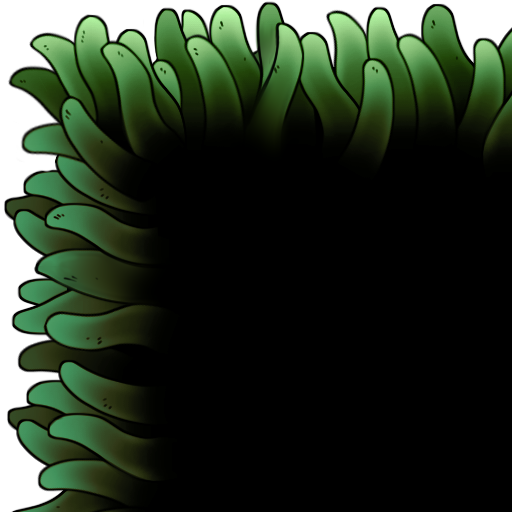
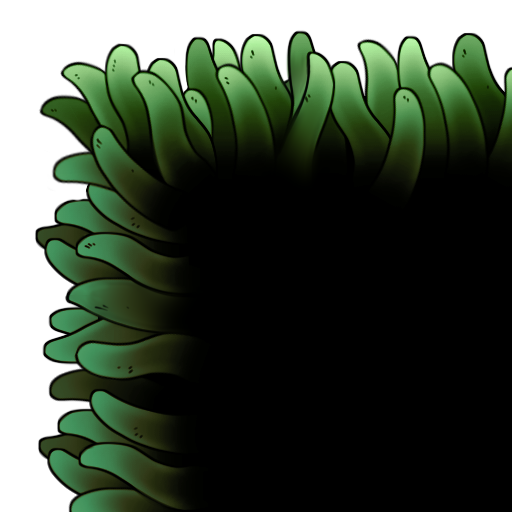
changed assets

diff --git a/game-engine/core/graphics/animatedGraphic.cpp b/game-engine/core/graphics/animatedGraphic.cpp
@@ -90,30 +90,30 @@ void AnimatedGraphic::checkCollisionRect(AnimatedGraphic* otherGraphic, float el
     Vector2D otherGraphicCurrentPosition = otherGraphic->getPosition();
     Vector2D otherGraphicNextPosition = otherGraphic->calculateNextPosition(elapsedTime);
     
-    if ((((currentGraphicCurrentPosition.y + getCollisionRectHeight() <= otherGraphicCurrentPosition.y && currentGraphicNextPosition.y + getCollisionRectHeight() > otherGraphicNextPosition.y) || currentGraphicCurrentPosition.y == otherGraphicCurrentPosition.y)
+    if ((((currentGraphicCurrentPosition.y + getCollisionRectHeight() <= otherGraphicCurrentPosition.y && currentGraphicNextPosition.y + getCollisionRectHeight() > otherGraphicNextPosition.y))
          && (currentGraphicNextPosition.x + getCollisionRectWidth() > otherGraphicNextPosition.x && currentGraphicCurrentPosition.x < otherGraphicNextPosition.x + otherGraphic->getCollisionRectWidth()))) {
         hasCollidedRect(otherGraphic, Geo2D::Side::BOTTOM);
         hasCollidedRectBottom(otherGraphic);
         otherGraphic->hasCollidedRect(this, Geo2D::Side::TOP);
         otherGraphic->hasCollidedRectTop(this);
-    } else if ((((currentGraphicCurrentPosition.y >= otherGraphicCurrentPosition.y + otherGraphic->getCollisionRectHeight() && currentGraphicNextPosition.y < otherGraphicNextPosition.y + otherGraphic->getCollisionRectHeight()) || currentGraphicCurrentPosition.y == otherGraphicCurrentPosition.y) &&
+    } else if ((((currentGraphicCurrentPosition.y >= otherGraphicCurrentPosition.y + otherGraphic->getCollisionRectHeight() && currentGraphicNextPosition.y < otherGraphicNextPosition.y + otherGraphic->getCollisionRectHeight())) &&
         (currentGraphicNextPosition.x + getCollisionRectWidth() > otherGraphicNextPosition.x && currentGraphicCurrentPosition.x < otherGraphicNextPosition.x + otherGraphic->getCollisionRectWidth()))) {
         hasCollidedRect(otherGraphic, Geo2D::Side::TOP);
         hasCollidedRectTop(otherGraphic);
         otherGraphic->hasCollidedRect(this, Geo2D::Side::BOTTOM);
         otherGraphic->hasCollidedRectBottom(this);
-    } else if ((((currentGraphicCurrentPosition.x + getCollisionRectWidth() <= otherGraphicCurrentPosition.x && currentGraphicNextPosition.x + getCollisionRectWidth() > otherGraphicNextPosition.x) || currentGraphicCurrentPosition.x == otherGraphicCurrentPosition.x)
+    } else if ((((currentGraphicCurrentPosition.x + getCollisionRectWidth() <= otherGraphicCurrentPosition.x && currentGraphicNextPosition.x + getCollisionRectWidth() > otherGraphicNextPosition.x))
          && (currentGraphicNextPosition.y + getCollisionRectHeight() > otherGraphicNextPosition.y && currentGraphicCurrentPosition.y < otherGraphicNextPosition.y + otherGraphic->getCollisionRectHeight()))) {
-        hasCollidedRect(otherGraphic, Geo2D::Side::LEFT);
-        hasCollidedRectLeft(otherGraphic);
-        otherGraphic->hasCollidedRect(this, Geo2D::Side::RIGHT);
-        otherGraphic->hasCollidedRectRight(this);
-    } else if ((((currentGraphicCurrentPosition.x >= otherGraphicCurrentPosition.x + otherGraphic->getCollisionRectWidth() && currentGraphicNextPosition.x < otherGraphicNextPosition.x + otherGraphic->getCollisionRectWidth()) || currentGraphicCurrentPosition.x == otherGraphicCurrentPosition.x) &&
-        (currentGraphicNextPosition.y + getCollisionRectHeight() > otherGraphicNextPosition.y && currentGraphicCurrentPosition.y < otherGraphicNextPosition.y + otherGraphic->getCollisionRectHeight()))) {
         hasCollidedRect(otherGraphic, Geo2D::Side::RIGHT);
         hasCollidedRectRight(otherGraphic);
         otherGraphic->hasCollidedRect(this, Geo2D::Side::LEFT);
         otherGraphic->hasCollidedRectLeft(this);
+    } else if ((((currentGraphicCurrentPosition.x >= otherGraphicCurrentPosition.x + otherGraphic->getCollisionRectWidth() && currentGraphicNextPosition.x < otherGraphicNextPosition.x + otherGraphic->getCollisionRectWidth())) &&
+        (currentGraphicNextPosition.y + getCollisionRectHeight() > otherGraphicNextPosition.y && currentGraphicCurrentPosition.y < otherGraphicNextPosition.y + otherGraphic->getCollisionRectHeight()))) {
+        hasCollidedRect(otherGraphic, Geo2D::Side::LEFT);
+        hasCollidedRectLeft(otherGraphic);
+        otherGraphic->hasCollidedRect(this, Geo2D::Side::RIGHT);
+        otherGraphic->hasCollidedRectRight(this);
     }
 }
 

diff --git a/mario/mario.cpp b/mario/mario.cpp
@@ -18,11 +18,11 @@ private:
 public:
     Mario(int screenWidth, int screenHeight, std::string name) : GameEngine(screenWidth, screenHeight, 9, name, 1000) {
         scrollingWorld = new jimp::ScrollingWorld(new Character(jimp::Vector2D { .x = static_cast<float>(getScreenWidth() / 2), .y = 200 }), 5000, 3000);
-        setBackgroundColor(0x7fb4c9);
+        setBackgroundColor(0x79b5af);
         new BackgroundRedCharacter(jimp::Vector2D { .x = 1670, .y = 2600 });
-        new Floor(jimp::Vector2D { .x = 0, .y = 0 }, "platform-top-left.png", 1);
-        new Floor(jimp::Vector2D { .x = 256, .y = 0 }, "platform-top-middle.png", 15);
-        new Floor(jimp::Vector2D { .x = 4096, .y = 0 }, "platform-top-right.png", 1);
+        Floor* left = new Floor(jimp::Vector2D { .x = 0, .y = 0 }, "platform-top-left.png", 1);
+        Floor* middle = new Floor(jimp::Vector2D { .x = static_cast<float>(left->getWidth()), .y = 0 }, "platform-top-middle.png", 3);
+        Floor* right = new Floor(jimp::Vector2D { .x = (middle->getPosition().x + middle->getWidth()), .y = 0 }, "platform-top-right.png", 1);
         
 //        new Platform(jimp::Vector2D { .x = 1200, .y = 2590 }, 5);
 //        new Platform(jimp::Vector2D { .x = 1600, .y = 2430 }, 8);

diff --git a/mario/character.cpp b/mario/character.cpp
@@ -24,6 +24,7 @@ void Character::doOnInit() {
 
 void Character::doOnUpdate(float elapsedTime) {
     std::string currentAnimationId = getCurrentAnimationId();
+    std::cout << getVelocity().y << std::endl;
     if (isJumping) {
         setCurrentAnimation("jump");
     } else if (getVelocity().x != 0) {
@@ -43,11 +44,11 @@ void Character::hasCollidedRectTop(AnimatedGraphic* otherGraphic) {
 }
 
 void Character::hasCollidedRectRight(AnimatedGraphic* otherGraphic) {
-    stayToRightOf(otherGraphic);
+    stayToLeftOf(otherGraphic);
 }
 
 void Character::hasCollidedRectLeft(AnimatedGraphic* otherGraphic) {
-    stayToLeftOf(otherGraphic);
+    stayToRightOf(otherGraphic);
 }
 
 void Character::onKeyboardLeft(jimp::KeyState keyState) {

diff --git a/game-engine/util/geo2D.hpp b/game-engine/util/geo2D.hpp
@@ -28,8 +28,14 @@ public:
     }
     
     static Vector2D vectorFrom(float angle, float force) {
-        float deltaX = force * sin(M_PI * 2 * angle / 360);
-        float deltaY = -(force * cos(M_PI * 2 * angle / 360));
+        float deltaX = 0;
+        float deltaY = 0;
+        if (angle != 180 && angle != 0) {
+            deltaX = force * sin(M_PI * 2 * angle / 360);
+        }
+        if (angle != 90 && angle != 270) {
+            deltaY = -(force * cos(M_PI * 2 * angle / 360));
+        }
         return Vector2D { .x = deltaX, .y = deltaY };
     }
     
